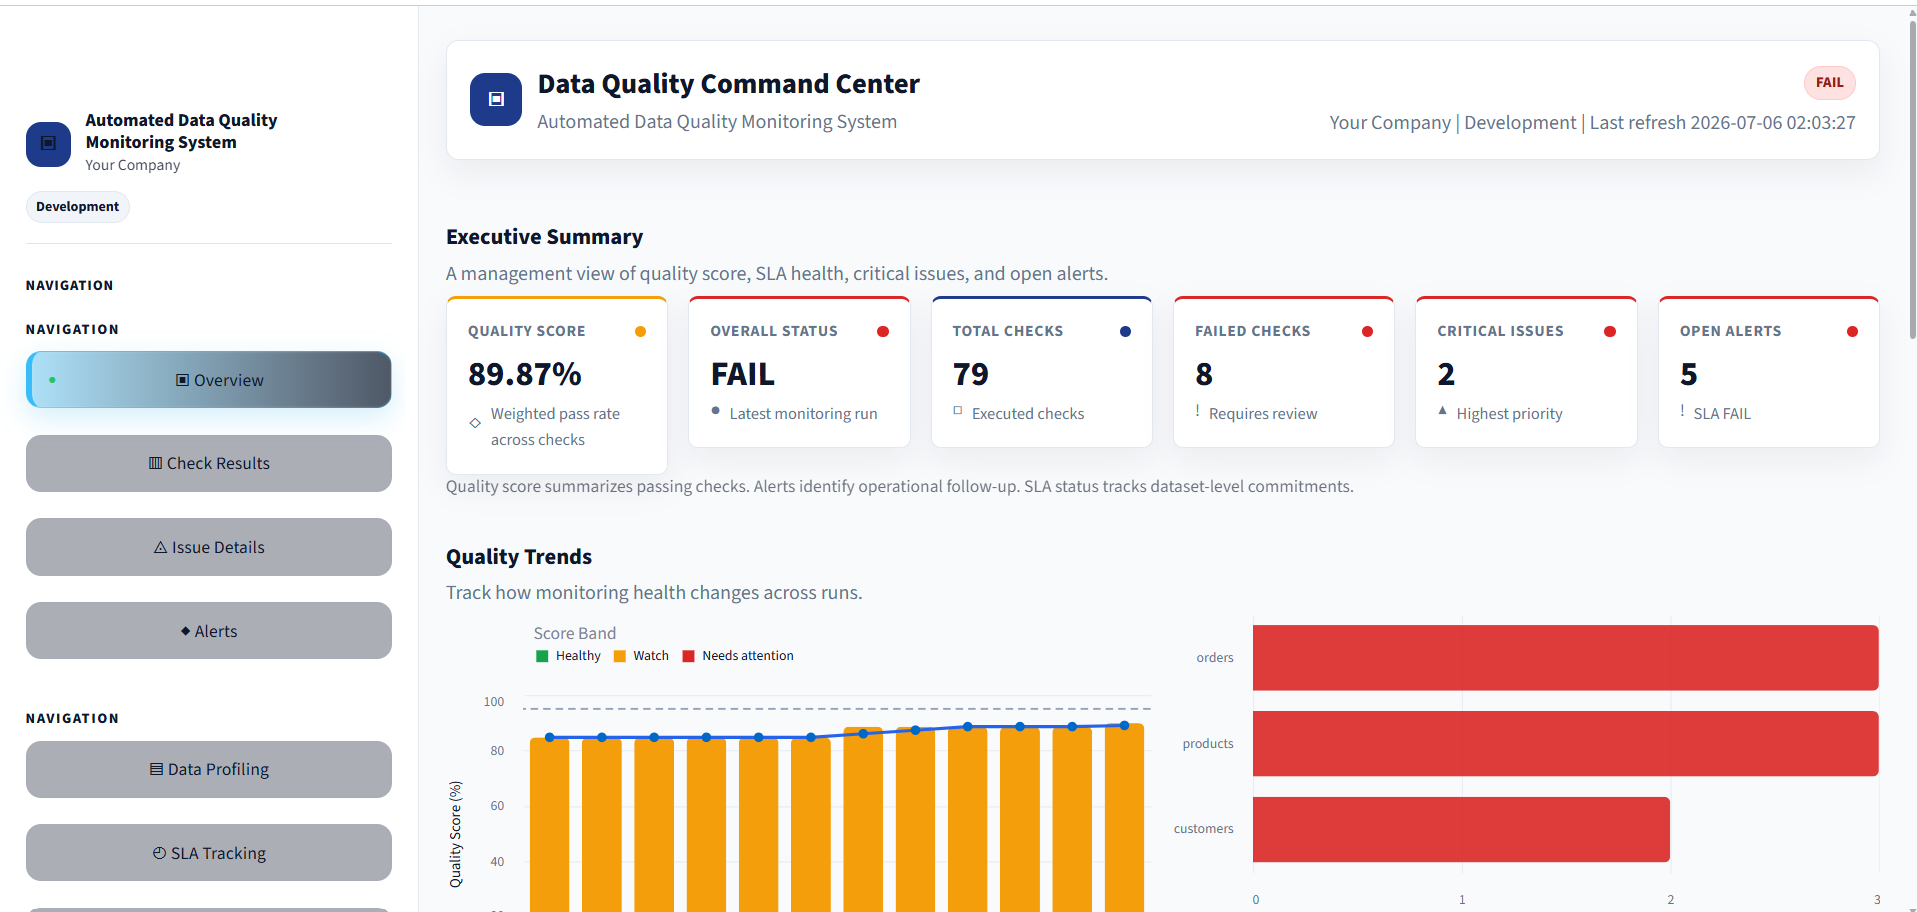
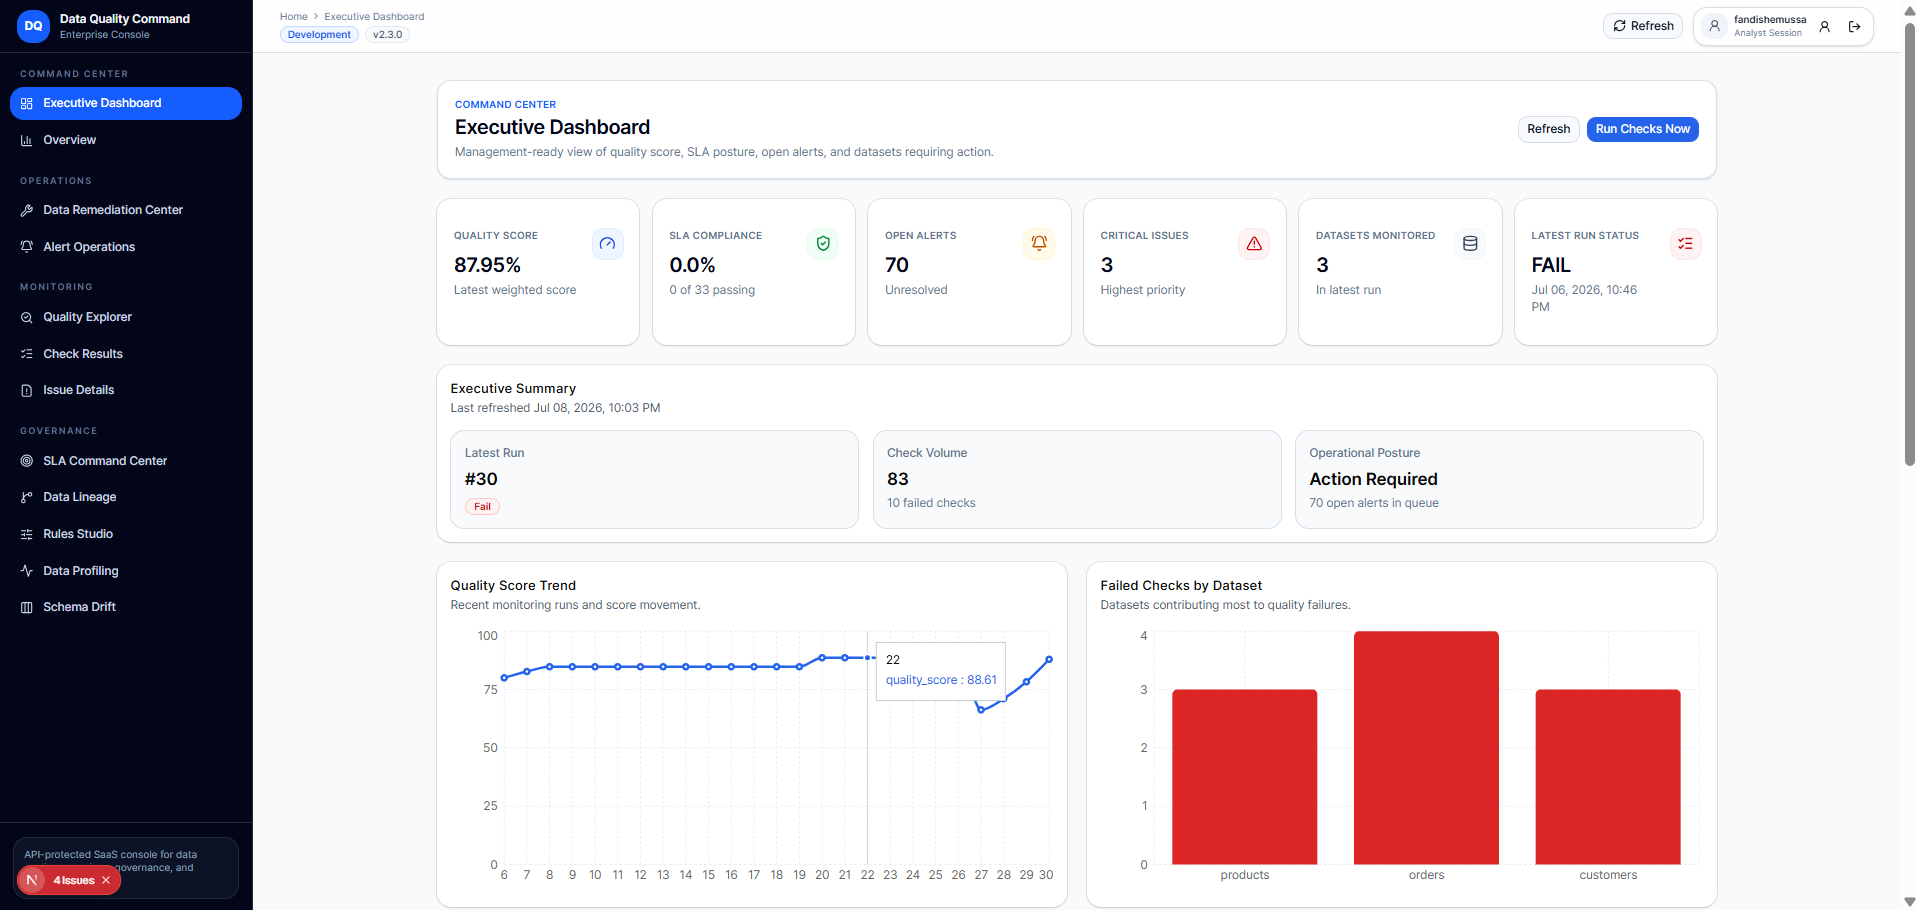
Improved Readme

diff --git a/README.md b/README.md
@@ -806,23 +806,25 @@ Dashboard capabilities:
 ### Overview
 ![Overview](docs/screenshots/overview.png)
 
-### Overview 1
-![Overview 1](docs/screenshots/overview1.png)
+### Schema Drift
+![Schema Drift](docs/screenshots/drift.png)
 
 ### Check Results
 ![Check Results](docs/screenshots/check-results.png)
 
 ### Alerts
 ![Alerts](docs/screenshots/alerts.png)
+### Data Remediation Center
+![Alerts](docs/screenshots/remediation.png)
 
-### Screen 4
-![Screen 4](docs/screenshots/screen4.png)
+### Data Profiling
+![Data Profiling](docs/screenshots/dat-profiling.png)
 
-### Screen 5
-![Screen 5](docs/screenshots/screen5.png)
+### Quality Explorer
+![Quality Explorer](docs/screenshots/quality.png)
 
-### Screen 6
-![Screen 6](docs/screenshots/screen6.png)
+### SLA Command Center
+![SLA Command Center](docs/screenshots/sla-command-center.png)
 
 ## Documentation
 